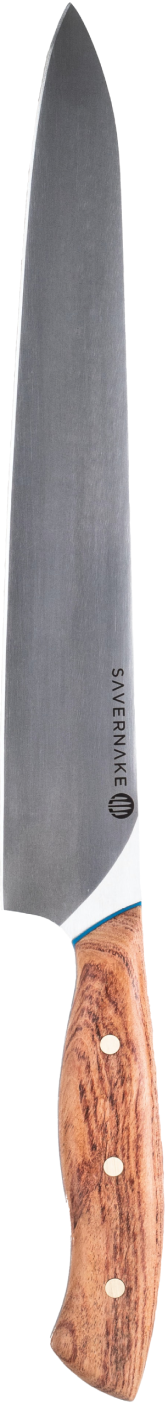
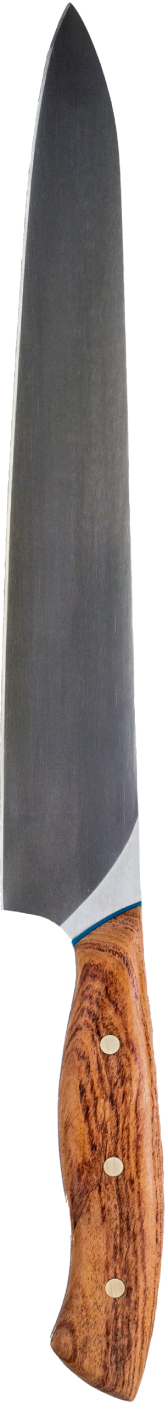
Changed opacity from background image and treated knife image

diff --git a/src/container/AboutUs/AboutUs.css b/src/container/AboutUs/AboutUs.css
@@ -9,8 +9,10 @@
 
 .app__aboutus-overlay img {
     width: auto;
-    height: 600px;
+    height: 900px;
     z-index: 0;
+
+    opacity: 40%;
 }
 
 .app__aboutus-content {
